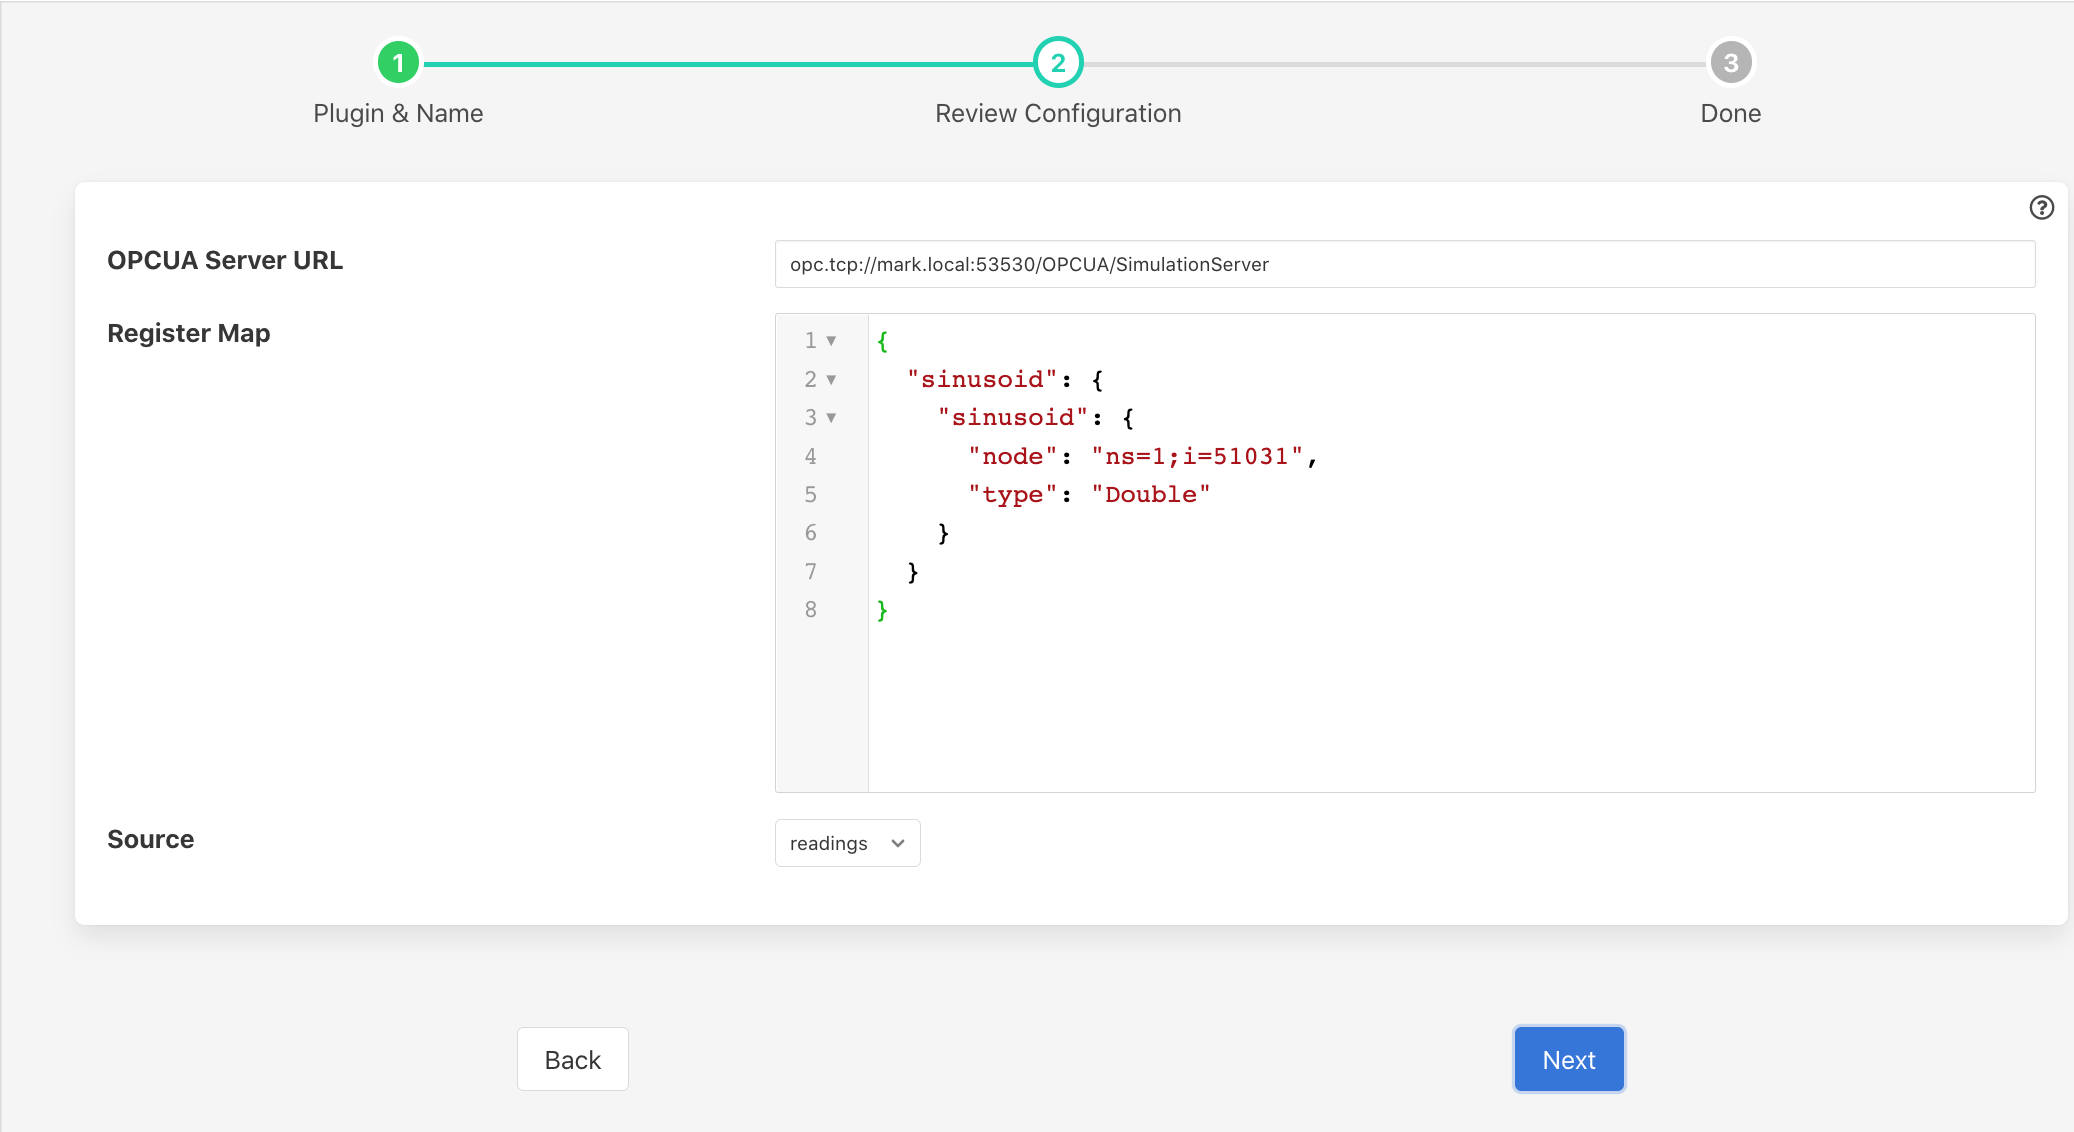
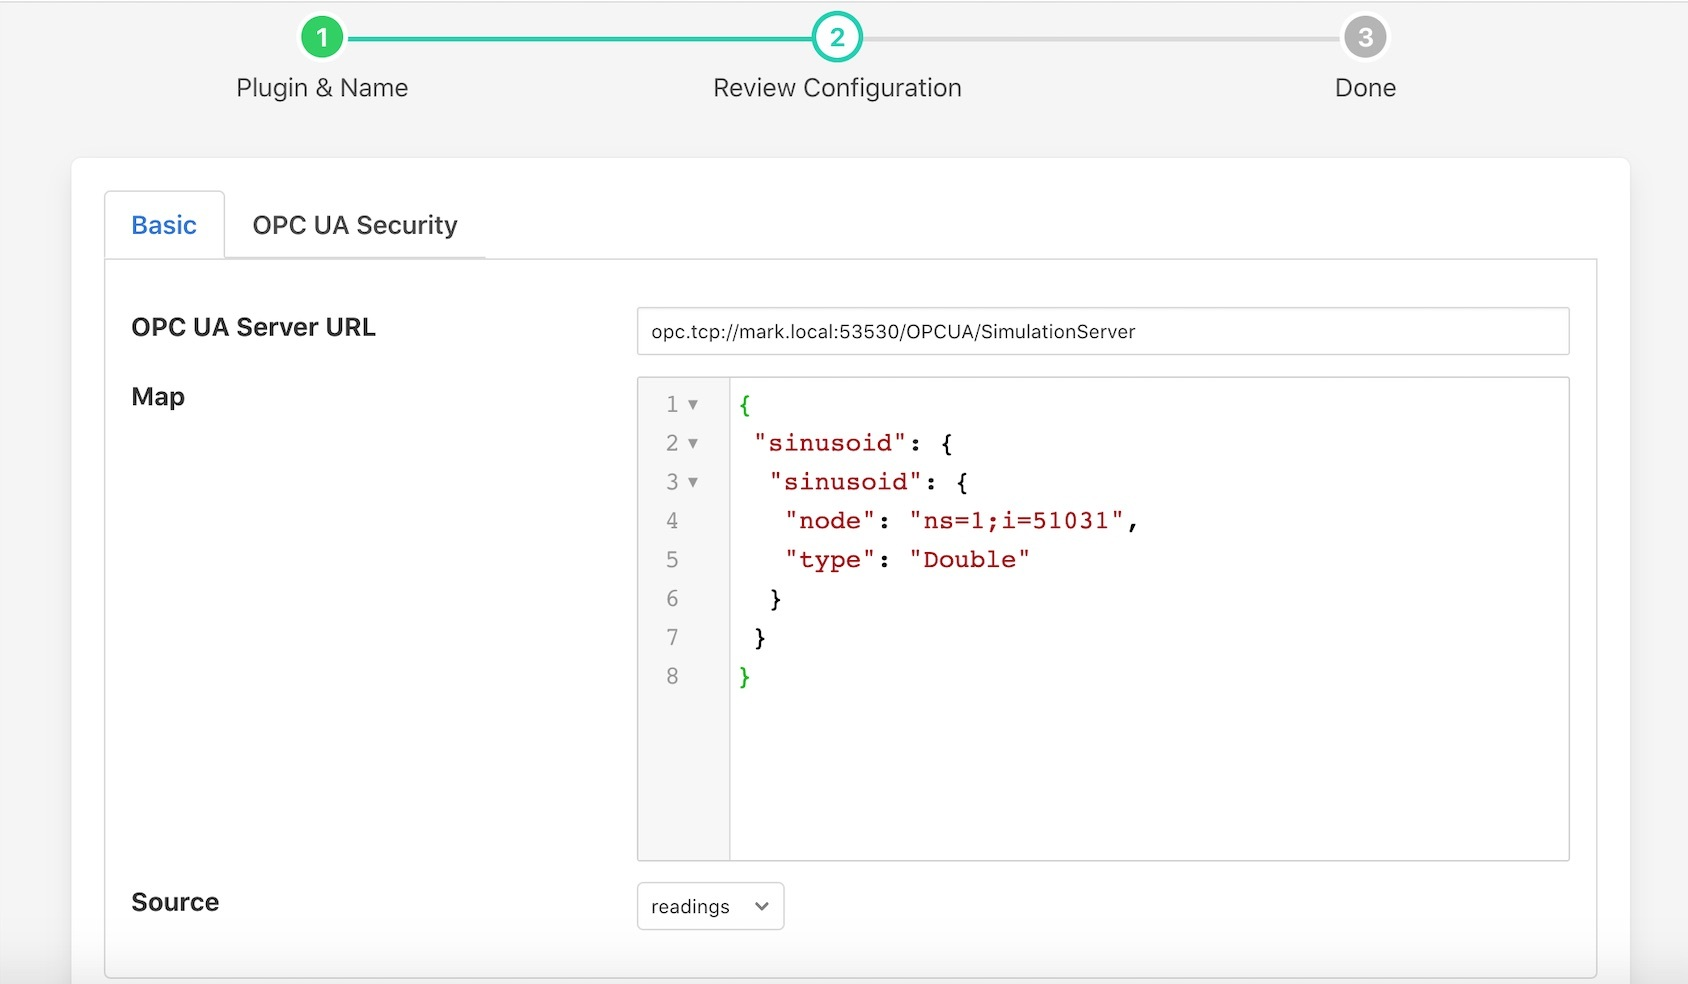
Doumentation updates with user authentication mode and security policy

diff --git a/docs/index.rst b/docs/index.rst
@@ -1,5 +1,24 @@
 .. Images
-.. |opcuaclient_1| image:: images/opcuaclient.jpg
+.. |opcuaclient_basic| image:: images/opcuaclient.jpg
+.. |opcuaclient_security| image:: images/security.jpg
+.. |security_mode| image:: images/security_mode.jpg
+.. |security_policy| image:: images/security_policy.jpg
+.. |user_authentication_mode| image:: images/user_authentication_mode.jpg
+.. |certstore| image:: images/certificatestore.jpg
+
+.. Links
+
+.. |OpenSSL| raw:: html
+
+    <a href="https://www.openssl.org">OpenSSL</a>
+
+.. |generate_certificate| raw:: html
+
+    <a href="https://github.com/FreeOpcUa/opcua-asyncio/blob/master/examples/generate_certificate.sh">generate certificates</a>
+
+.. |FreeOpcUa| raw:: html
+
+    <a href="https://github.com/FreeOpcUa/opcua-asyncio">FreeOpcUa python library</a>
 
 
 North OPC UA Client
@@ -23,9 +42,19 @@ The plugin may be used within a north *task* or *service*. Both of these are cre
 
   - Configure the plugin
 
-  +-----------------+
-  | |opcuaclient_1| |
-  +-----------------+
+The configuration parameters that can be set on this page are divided into a set of tabs;
+
+  - Basic Configuration
+
+  - OPC UA Security
+
+The basic configuration tab is shown below
+
+  +---------------------+
+  | |opcuaclient_basic| |
+  +---------------------+
+
+On this tab a number of configuration parameters are available;
 
       - **OPC UA Server URL**: The url of the OPC UA Server to which data will be sent. The URL should be of the form opc.tcp://...
 
@@ -49,7 +78,94 @@ The plugin may be used within a north *task* or *service*. Both of these are cre
 
       - **Source**: The source of the data to be sent, this may be the *readings* or *statistics* data.
 
-  - Click *Next*
+The OPC UA Security tab contains a set of configuration items that is used for setting the security between the client and the OPC UA Server.
 
-  - Enable your task or service and click *Done*
++------------------------+
+| |opcuaclient_security| |
++------------------------+
 
+  - **Security Mode**: Specify the OPC/UA security mode that will be used to communicate with the OPC/UA server.
+
+    +-----------------+
+    | |security_mode| |
+    +-----------------+
+
+  - **Security Policy**: Specify the OPC/UA security policy that will be used to communicate with the OPC/UA server.
+
+    +-------------------+
+    | |security_policy| |
+    +-------------------+
+
+  - **User Authentication Mode**: Specify the user authentication mode that will be used when authenticating the connection to the OPC/UA server.
+
+    +----------------------------+
+    | |user_authentication_mode| |
+    +----------------------------+
+
+  - **Username**: Specify the username to use for authentication. This is only used if the *User Authentication Mode* is set to *Username And Password*.
+
+  - **Password**: Specify the password to use for authentication. This is only used if the *User Authentication Mode* is set to *Username And Password*.
+
+  - **Server Public Certificate**: (Optional) The name of the public certificate of the OPC/UA server specified in the *OPCUA Server URL*. This must either be a DER or PEM format certificate file.
+
+  - **Client Public Certificate**: The name of the public certificate of the OPC/UA client application, that is, this plugin. This must either be a DER or PEM format certificate file.
+
+  - **Client Private Key**: The name of the private key of the client application, that is, the private key the plugin will use. This must be a PEM format key file.
+
+  - **Client Private Passphrase Key**: (Optional) The passphrase of the private key of the client application.
+
+
+- Click *Next*
+
+- Enable your task or service
+
+- Click *Done*
+
+
+Certificate Management
+----------------------
+
+Typically the Certificate Authorities certificate is retrieved and uploaded to the Fledge Certificate Store along with the certificate from the OPC/UA server that has been signed by that Certificate Authority. A public/private key pair must also be created for the plugin and signed by the Certificate Authority. These are uploaded to the Fledge Certificate Store.
+
+|OpenSSL| may be used to generate and convert the keys and certificates required.
+An example to |generate_certificate| to do this is available as part of the underlying |FreeOpcUa|.
+
+.. note::
+    subjectAltName should be same as your OPCUA server Application URI and also the subject commonName should be your server FQDN or YOUR hostname.
+
+Use the OpenSSL command-line utility to generate the certificate and key files to the formats needed for the Plugin.
+
+.. code-block:: bash
+
+   openssl genrsa -out myclientkey.pem 2048
+
+   openssl req -x509 -days 365 -new -out myclientcert.pem -key myclientkey.pem -config ssl.conf
+
+   openssl x509 -outform der -in myclientcert.pem -out myclientcert.der
+
+Importing the Certificate and Key Files
+~~~~~~~~~~~~~~~~~~~~~~~~~~~~~~~~~~~~~~~
+You can either use GUI or manually to upload the certificates at right place.
+
+a) via GUI (Recommended way)
+
+- Launch the Fledge GUI.
+- Navigate to the Certificate Store.
+- In the upper right corner of the screen, click *Import*.
+
+    +-------------+
+    | |certstore| |
+    +-------------+
+
+    - In the *Key* section, click *Choose File* and navigate to the location of the key file *myclientkey.pem*.
+
+    - In the *Certificate* section, click *Choose File* and navigate to the location of the certificate file *myclientcert.der*.
+
+    - Click *Import*.
+
+And for the OPC UA server certificate, enter the server certificate file name in the *Certificate* portion of the Import dialog and then click *Import*.
+
+b) via Manually
+
+- Copy the certificates and place in the `$FLEDGE_DATA/etc/certs/` or `$FLEDGE_ROOT/data/etc/certs/` directory. And if certificate in PEM format then place in the `$FLEDGE_DATA/etc/certs/pem/` or `$FLEDGE_ROOT/data/etc/certs/pem/` directory
+- Copy the key and place in the `$FLEDGE_DATA/etc/certs/` or `$FLEDGE_ROOT/data/etc/certs/` directory.
